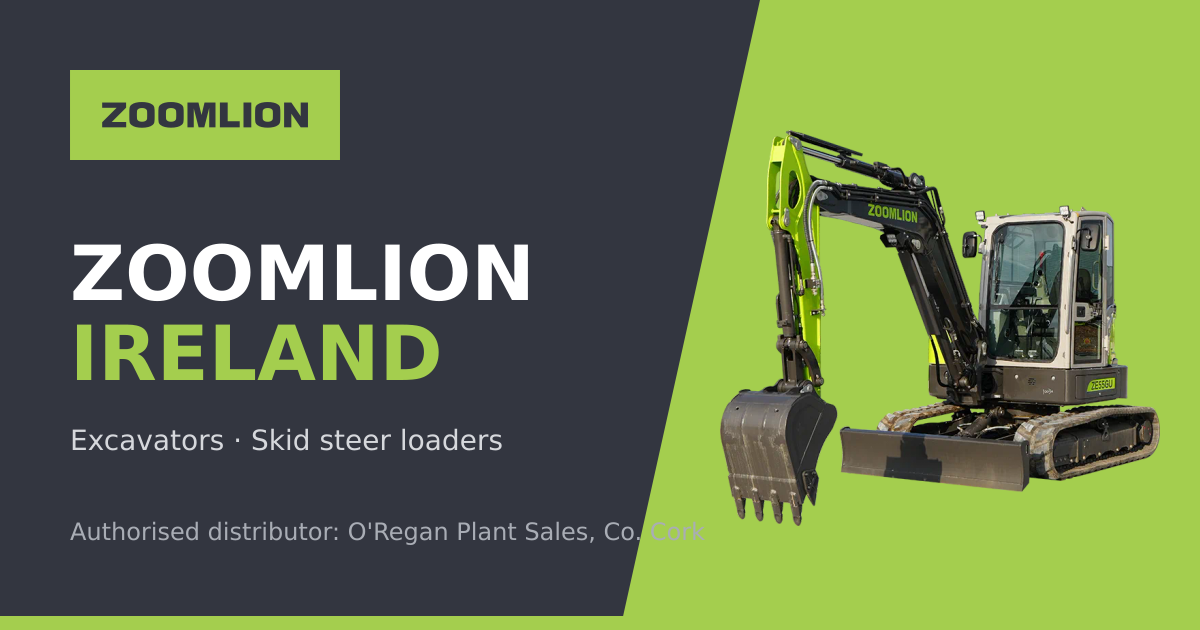
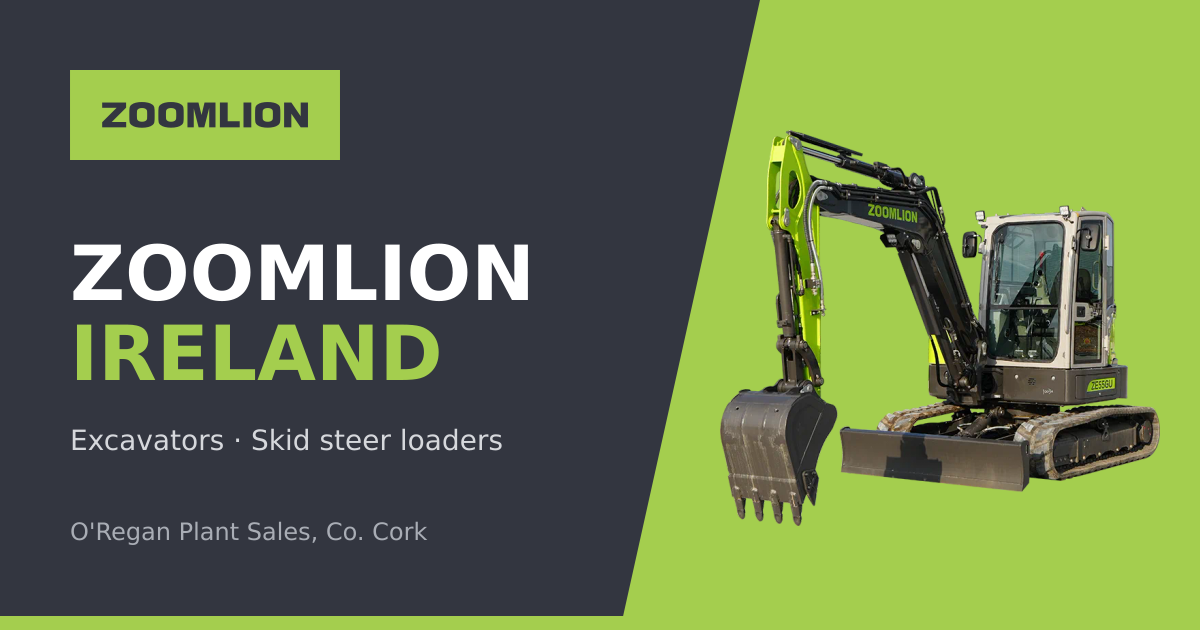
Refine dealer descriptions and remove "authorised distributor" references across the site; update OG image text.

Changed region(s): [[0.0617, 0.8143, 0.5858, 0.8746]]

diff --git a/app/page.tsx b/app/page.tsx
@@ -48,7 +48,7 @@ export default function Home() {
         <div className="slab absolute inset-y-0 right-[40%] hidden w-[10%] bg-lime/15 lg:block" aria-hidden />
         <div className="relative mx-auto grid max-w-7xl items-center gap-10 px-4 pb-16 pt-14 sm:px-6 lg:min-h-[640px] lg:grid-cols-[1.1fr_1fr] lg:py-20">
           <div>
-            <p className="eyebrow text-lime">Authorised Zoomlion distributor · Ireland</p>
+            <p className="eyebrow text-lime">Zoomlion machinery · Ireland</p>
             <h1 className="display mt-5 text-[3.2rem] sm:text-7xl xl:text-[5.5rem]">
               Zoomlion power.
               <br />
@@ -129,13 +129,12 @@ export default function Home() {
               straightforward servicing, at a price that makes sense for Irish contractors, farmers and hire fleets.
             </p>
             <p>
-              As the authorised Zoomlion distributor in Ireland, we supply new machines through the official channel, so you get
-              genuine parts, warranty support and a local team who know the machines.
+              We supply new Zoomlion machines with genuine parts, warranty support and a local team who know the machines.
             </p>
             <div className="grid gap-4 pt-4 sm:grid-cols-2">
               <div className="flex gap-3 border-l-4 border-lime bg-white/5 p-5">
                 <ShieldIcon className="size-7 shrink-0 text-lime" />
-                <p className="text-base">Official Irish distributor: machines supplied through Zoomlion&apos;s own channel</p>
+                <p className="text-base">Irish supply: machines backed by genuine parts and local support</p>
               </div>
               <div className="flex gap-3 border-l-4 border-lime bg-white/5 p-5">
                 <WrenchIcon className="size-7 shrink-0 text-lime" />
@@ -149,11 +148,11 @@ export default function Home() {
       {/* Why buy from O'Regan */}
       <section className="mx-auto max-w-7xl px-4 py-20 sm:px-6 lg:py-28">
         <div className="max-w-3xl">
-          <p className="eyebrow text-lime-deep">Your Zoomlion dealer</p>
+          <p className="eyebrow text-lime-deep">Your Zoomlion supplier</p>
           <h2 className="display mt-3 text-5xl text-graphite sm:text-6xl">Bought in Ireland, backed in Ireland</h2>
           <p className="mt-5 text-lg leading-relaxed text-steel">
-            {DEALER.name} is the authorised Zoomlion distributor in Ireland. We have sold and hired plant machinery from Co. Cork for
-            years, and we stay with you after the sale.
+            {DEALER.name} supplies Zoomlion machinery across Ireland. We have sold and hired plant machinery from Co. Cork for years,
+            and we stay with you after the sale.
           </p>
         </div>
         <div className="mt-12 grid gap-px bg-line sm:grid-cols-2 lg:grid-cols-4">

diff --git a/app/llms.txt/route.ts b/app/llms.txt/route.ts
@@ -10,11 +10,11 @@ export function GET() {
   const lines = [
     `# ${SITE.name}`,
     "",
-    `> ${SITE.name} (zoomlion.ie) is the Irish website for Zoomlion construction machinery. ${DEALER.name}, based in Watergrasshill, Co. Cork, is the authorised Zoomlion distributor in Ireland: it sells, delivers, finances and services Zoomlion machines nationwide. Prices are listed below and on each machine page, excluding VAT.`,
+    `> ${SITE.name} (zoomlion.ie) is the Irish website for Zoomlion construction machinery. ${DEALER.name}, based in Watergrasshill, Co. Cork, sells, delivers, finances and services Zoomlion machines nationwide. Prices are listed below and on each machine page, excluding VAT.`,
     "",
     "## Dealer",
     "",
-    `- Name: ${DEALER.name} (authorised Zoomlion distributor, Ireland)`,
+    `- Name: ${DEALER.name} (Zoomlion machinery supplier, Ireland)`,
     `- Address: ${addressLines.join(", ")}, Ireland`,
     `- Phone: ${DEALER.phoneDisplay} (+353 21 488 9800); mobile/WhatsApp: ${DEALER.mobileDisplay}`,
     `- Email: ${DEALER.email}`,
@@ -24,7 +24,7 @@ export function GET() {
     "## About Zoomlion",
     "",
     "- Zoomlion is an international manufacturer of construction machinery, including excavators and skid steer loaders.",
-    `- In Ireland, Zoomlion machines are supplied, financed and serviced by ${DEALER.name}, the authorised distributor.`,
+    `- In Ireland, Zoomlion machines are supplied, financed and serviced by ${DEALER.name}.`,
     "- Manufacturer site: https://en.zoomlion.com/",
     "",
     "## Products",

diff --git a/lib/faqs.ts b/lib/faqs.ts
@@ -7,11 +7,11 @@ import { DEALER } from "./site";
 export const BUYING_FAQS: Faq[] = [
   {
     q: "Where can I buy Zoomlion machinery in Ireland?",
-    a: `${DEALER.name} is the authorised Zoomlion distributor in Ireland, based at Watergrasshill Business Park, Co. Cork (${DEALER.address.postcode}). You can request a quote on zoomlion.ie, call ${DEALER.phoneDisplay} or email ${DEALER.email}.`,
+    a: `${DEALER.name} supplies Zoomlion machinery in Ireland from Watergrasshill Business Park, Co. Cork (${DEALER.address.postcode}). You can request a quote on zoomlion.ie, call ${DEALER.phoneDisplay} or email ${DEALER.email}.`,
   },
   {
     q: "Is Zoomlion a good brand?",
-    a: `Zoomlion is a major international manufacturer of construction machinery, known for strong, well-equipped machines at competitive prices. In Ireland, Zoomlion machines are supplied through ${DEALER.name}, the authorised distributor, with genuine parts and local service.`,
+    a: `Zoomlion is a major international manufacturer of construction machinery, known for strong, well-equipped machines at competitive prices. In Ireland, Zoomlion machines are supplied through ${DEALER.name}, with genuine parts and local service.`,
   },
   {
     q: "How much do Zoomlion machines cost in Ireland?",

diff --git a/app/products/[slug]/page.tsx b/app/products/[slug]/page.tsx
@@ -29,8 +29,8 @@ function machineFaqs(m: Machine): Faq[] {
       q: `How much is the Zoomlion ${m.model} in Ireland?`,
       a:
         m.price === null
-          ? `The Zoomlion ${m.model} ${kind} is priced on request from ${DEALER.name}, the authorised Zoomlion distributor in Ireland. Call ${DEALER.phoneDisplay} or send an enquiry for a written quote, with attachments, delivery and finance options.`
-          : `The Zoomlion ${m.model} ${kind} is ${formatPrice(m.price)} from ${DEALER.name}, the authorised Zoomlion distributor in Ireland. Attachments, delivery and finance are quoted on request: call ${DEALER.phoneDisplay} or send an enquiry.`,
+          ? `The Zoomlion ${m.model} ${kind} is priced on request from ${DEALER.name}. Call ${DEALER.phoneDisplay} or send an enquiry for a written quote, with attachments, delivery and finance options.`
+          : `The Zoomlion ${m.model} ${kind} is ${formatPrice(m.price)} from ${DEALER.name}. Attachments, delivery and finance are quoted on request: call ${DEALER.phoneDisplay} or send an enquiry.`,
     },
     {
       q: `Where can I buy the Zoomlion ${m.model} in Ireland?`,

diff --git a/lib/site.ts b/lib/site.ts
@@ -6,7 +6,7 @@ export const SITE = {
   name: "Zoomlion Ireland",
   tagline: "Zoomlion machinery in Ireland, sold and supported by O'Regan Plant Sales",
   description:
-    "Zoomlion excavators and skid steer loaders for sale in Ireland, with prices. Authorised distributor O'Regan Plant Sales, Co. Cork: finance, service.",
+    "Zoomlion excavators and skid steer loaders for sale in Ireland, with prices. Supplied by O'Regan Plant Sales, Co. Cork: finance, service.",
   locale: "en_IE",
 } as const;
 
@@ -36,7 +36,7 @@ export const addressLines = [DEALER.address.street, `${DEALER.address.locality},
 
 /** What the dealer offers, shown in the homepage strip under the hero. */
 export const DEALER_HIGHLIGHTS = [
-  { value: "Authorised", label: "Zoomlion distributor for Ireland" },
+  { value: "Ireland", label: "Zoomlion sales and support" },
   { value: "Co. Cork", label: "Sales, parts and service depot" },
   { value: "Finance", label: "Options for business buyers" },
   { value: "Nationwide", label: "Delivery across Ireland" },

diff --git a/app/products/page.tsx b/app/products/page.tsx
@@ -9,7 +9,7 @@ import { graph, itemList, webPage } from "@/lib/schema";
 import { DEALER } from "@/lib/site";
 
 const TITLE = "Zoomlion Excavators & Skid Steers for Sale in Ireland";
-const DESCRIPTION = `Zoomlion mini and crawler excavators and skid steers for sale in Ireland, with prices, specs and spec sheets. Authorised dealer ${DEALER.name}, Co. Cork.`;
+const DESCRIPTION = `Zoomlion mini and crawler excavators and skid steers for sale in Ireland, with prices, specs and spec sheets. Supplied by ${DEALER.name}, Co. Cork.`;
 
 export const metadata: Metadata = pageMeta({ title: TITLE, description: DESCRIPTION, path: "/products/", absoluteTitle: true });
 

diff --git a/app/contact/page.tsx b/app/contact/page.tsx
@@ -10,7 +10,7 @@ import { pageMeta } from "@/lib/meta";
 import { DEALER, addressLines, waLink } from "@/lib/site";
 
 const TITLE = "Contact Zoomlion Ireland | O'Regan Plant Sales, Cork";
-const DESCRIPTION = `Contact ${DEALER.name}, authorised Zoomlion distributor in Ireland. Call ${DEALER.phoneDisplay}, WhatsApp or visit us in Watergrasshill, Co. Cork.`;
+const DESCRIPTION = `Contact ${DEALER.name} about Zoomlion machinery in Ireland. Call ${DEALER.phoneDisplay}, WhatsApp or visit us in Watergrasshill, Co. Cork.`;
 
 export const metadata: Metadata = pageMeta({ title: TITLE, description: DESCRIPTION, path: "/contact/", absoluteTitle: true });
 

diff --git a/components/Header.tsx b/components/Header.tsx
@@ -30,7 +30,7 @@ export default function Header() {
       <div className="bg-night text-[0.82rem] text-white/75">
         <div className="mx-auto flex max-w-7xl items-center justify-between gap-4 px-4 py-2 sm:px-6">
           <p className="truncate">
-            <span className="font-semibold text-lime">Authorised Zoomlion distributor</span>
+            <span className="font-semibold text-lime">Zoomlion machinery in Ireland</span>
             <span className="hidden sm:inline"> · {DEALER.name}, Co. Cork</span>
           </p>
           <div className="flex shrink-0 items-center gap-5">

diff --git a/components/Footer.tsx b/components/Footer.tsx
@@ -12,8 +12,7 @@ export default function Footer() {
         <div>
           <Logo dark />
           <p className="mt-6 max-w-sm leading-relaxed">
-            Zoomlion machinery for sale in Ireland. Supplied, delivered and serviced by {DEALER.name}, authorised Zoomlion distributor, from
-            Watergrasshill, Co. Cork.
+            Zoomlion machinery for sale in Ireland. Supplied, delivered and serviced by {DEALER.name} from Watergrasshill, Co. Cork.
           </p>
         </div>
 

diff --git a/lib/schema.ts b/lib/schema.ts
@@ -26,7 +26,7 @@ export const dealer = {
   "@id": DEALER_ID,
   name: DEALER.name,
   alternateName: SITE.name,
-  description: `Authorised Zoomlion distributor in Ireland. ${DEALER.name} sells, delivers and services Zoomlion machinery from Watergrasshill, Co. Cork.`,
+  description: `${DEALER.name} sells, delivers and services Zoomlion machinery from Watergrasshill, Co. Cork.`,
   url: SITE.url,
   logo: absUrl("/brand/zoomlion-logo.svg"),
   image: absUrl("/og.png"),

diff --git a/README.md b/README.md
@@ -1,6 +1,6 @@
 # zoomlion.ie
 
-Website for Zoomlion machinery in Ireland, run by O'Regan Plant Sales (authorised distributor, Watergrasshill, Co. Cork).
+Website for Zoomlion machinery in Ireland, run by O'Regan Plant Sales (Watergrasshill, Co. Cork).
 Lead generation: each machine shows its price, every "Enquire" opens the enquiry form, and WhatsApp/phone/email are on every page.
 
 Next.js (App Router, TypeScript, Tailwind CSS v4), static export to `out/`, deployed to GitHub Pages by `.github/workflows/pages.yml` on every push to `main` (Firebase config is kept for later).
